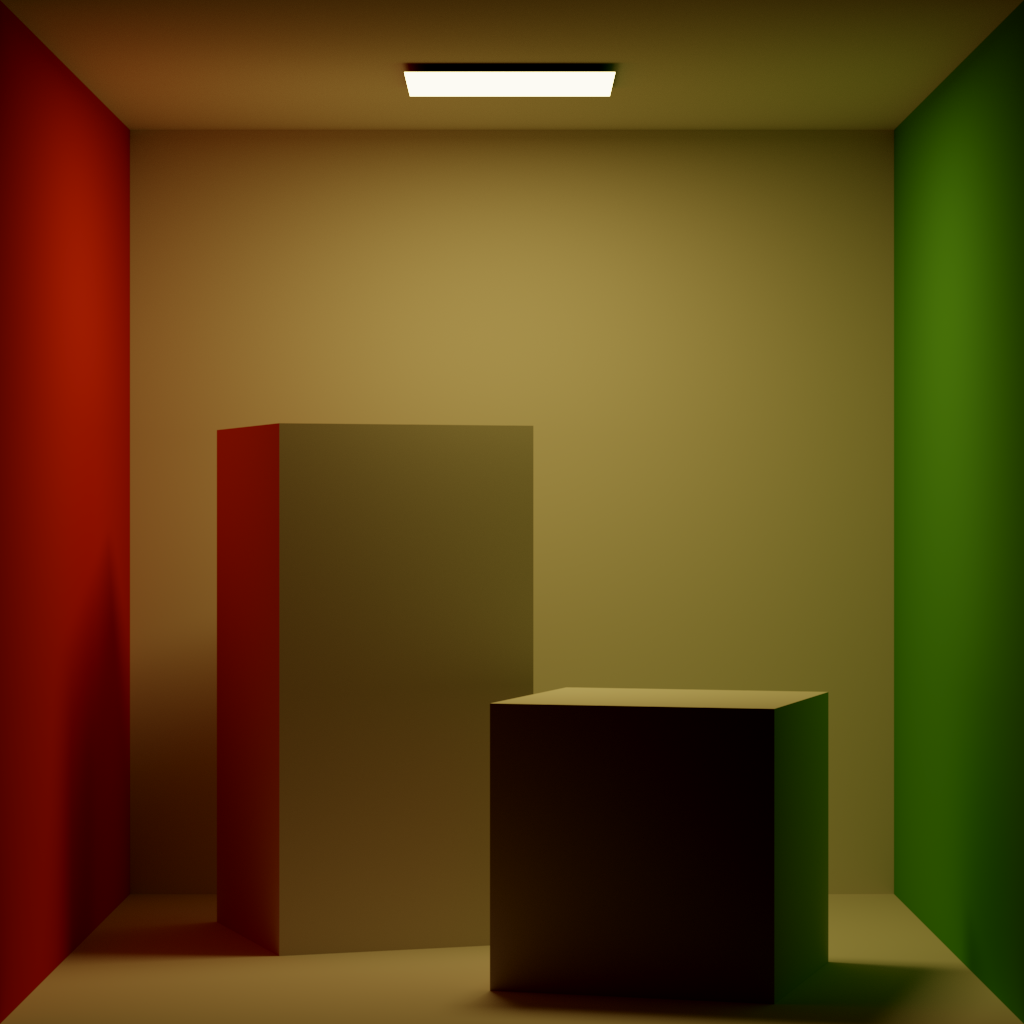
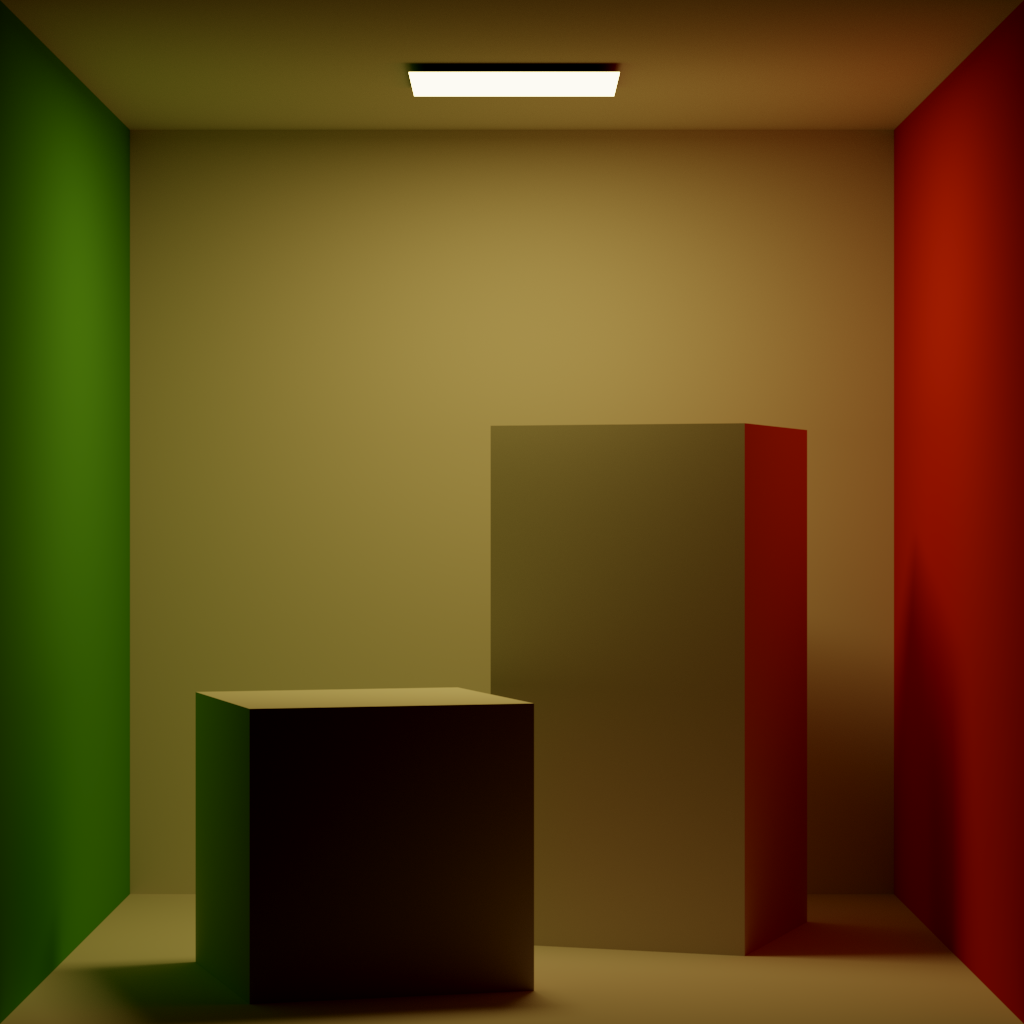
Enabling geometry in the cornell box to render properly

diff --git a/PBRTParser/PBRTParser.cpp b/PBRTParser/PBRTParser.cpp
@@ -17,6 +17,7 @@ namespace PBRTParser
     void PBRTParser::Parse(std::string filename, Scene &outputScene)
     {
         m_fileStream = ifstream(filename);
+        m_currentTransform = glm::mat4();
 
         if (!m_fileStream.good())
         {
@@ -35,8 +36,13 @@ namespace PBRTParser
             {
                 ParseCamera(m_fileStream, outputScene);
             }
+            else if (!lastParsedWord.compare("Transform"))
+            {
+                ParseTransform();
+            }
             else if (!lastParsedWord.compare("WorldBegin"))
             {
+                m_currentTransform = glm::mat4();
                 ParseWorld(m_fileStream, outputScene);
             }
             else
@@ -77,6 +83,10 @@ namespace PBRTParser
             &outputScene.m_Camera.m_FieldOfView);
 
         ThrowIfTrue(argCount != 1, "Camera arguments not formatted correctly");
+    
+        outputScene.m_Camera.m_LookAt = ConvertToVector3(m_currentTransform * m_lookAt);
+        outputScene.m_Camera.m_Position = ConvertToVector3(m_currentTransform * m_camPos);
+        outputScene.m_Camera.m_Up = ConvertToVector3(m_currentTransform * m_camUp);
     }
 
     void PBRTParser::ParseFilm(std::ifstream &fileStream, SceneParser::Scene &outputScene)
@@ -315,9 +325,13 @@ namespace PBRTParser
 
     void PBRTParser::InitializeCameraDefaults(Camera &camera)
     {
+        m_lookAt = glm::vec4(0.0f, 2.0f, 1.0f, 1.0f);
+        m_camPos = glm::vec4(0.0f, 2.0f, 0.0f, 1.0f);
+        m_camUp = glm::vec4(0.0f, 1.0f, 0.0f, 0.0f);
+
         camera.m_FieldOfView = 90;
-        camera.m_LookAt = Vector3(0.0f, 0.0f, 0.0f);
-        camera.m_Position = Vector3(0.0f, 0.0f, -1.0f);
+        camera.m_LookAt = ConvertToVector3(m_lookAt);
+        camera.m_Position = ConvertToVector3(m_camPos);
         camera.m_Up = Vector3(0.0f, 1.0f, 0.0f);
         camera.m_NearPlane = 0.001f;
         camera.m_FarPlane = 999999.0f;
@@ -325,7 +339,52 @@ namespace PBRTParser
 
     void PBRTParser::ParseTransform()
     {
-        
+        char *pTempBuffer = GetLine();
+        float mat[4][4];
+
+        UINT argCount = sscanf_s(pTempBuffer, " \[ %f %f %f %f  %f %f %f %f  %f %f %f %f  %f %f %f %f \] ",
+            &mat[0][0],
+            &mat[0][1],
+            &mat[0][2],
+            &mat[0][3],
+
+            &mat[1][0],
+            &mat[1][1],
+            &mat[1][2],
+            &mat[1][3],
+
+            &mat[2][0],
+            &mat[2][1],
+            &mat[2][2],
+            &mat[2][3],
+
+            &mat[3][0],
+            &mat[3][1],
+            &mat[3][2],
+            &mat[3][3]);
+
+        ThrowIfTrue(argCount != 16, "Transform arguments not formatted correctly");
+
+        m_currentTransform = glm::mat4(
+            mat[0][0],
+            mat[0][1],
+            mat[0][2],
+            mat[0][3],
+
+            mat[1][0],
+            mat[1][1],
+            mat[1][2],
+            mat[1][3],
+
+            mat[2][0],
+            mat[2][1],
+            mat[2][2],
+            mat[2][3],
+
+            mat[3][0],
+            mat[3][1],
+            mat[3][2],
+            mat[3][3]);
     }
 }
 

diff --git a/PBRTParser/PBRTParser.h b/PBRTParser/PBRTParser.h
@@ -10,6 +10,7 @@ namespace PBRTParser
 {
 // Keep this inside our namespace because glm doesn't protect
 // against double inclusion
+#include "glm/vec4.hpp"
 #include "glm/vec3.hpp"
 #include "glm/vec2.hpp"
 #include "glm/glm.hpp"
@@ -54,9 +55,17 @@ namespace PBRTParser
             return pTempBuffer;
         }
 
+        static SceneParser::Vector3 ConvertToVector3(const glm::vec4 &vec)
+        {
+            return SceneParser::Vector3(vec.x, vec.y, vec.z);
+        }
+
         std::ifstream m_fileStream;
 
         glm::mat4 m_currentTransform;
+        glm::vec4 m_lookAt;
+        glm::vec4 m_camPos;
+        glm::vec4 m_camUp;
 
         // Shouldn't be accessed directly outside of GetTempCharBuffer
         char _m_buffer[500];

diff --git a/source/Main.cpp b/source/Main.cpp
@@ -423,7 +423,9 @@ void InitSceneAndCamera(_In_ Renderer *pRenderer, _In_ EnvironmentMap *pEnvMap, 
     const float LensHeight = 2.0f;
     const float AspectRatio = (float)fileScene.m_Film.m_ResolutionX / fileScene.m_Film.m_ResolutionY;
     const float LensWidth = LensHeight * AspectRatio;
-    const float FocalLength = LensWidth / (2.0f* tan(fileScene.m_Camera.m_FieldOfView / 2.0f));
+    const float fov = fileScene.m_Camera.m_FieldOfView * M_PI / 180.0f;
+
+    const float FocalLength = LensWidth / (2.0f* tan(fov / 2.0f));
     float VerticalFov = 2 * atan(LensHeight / (2.0f * FocalLength));
 
     CreateCameraDescriptor CameraDescriptor = {};
